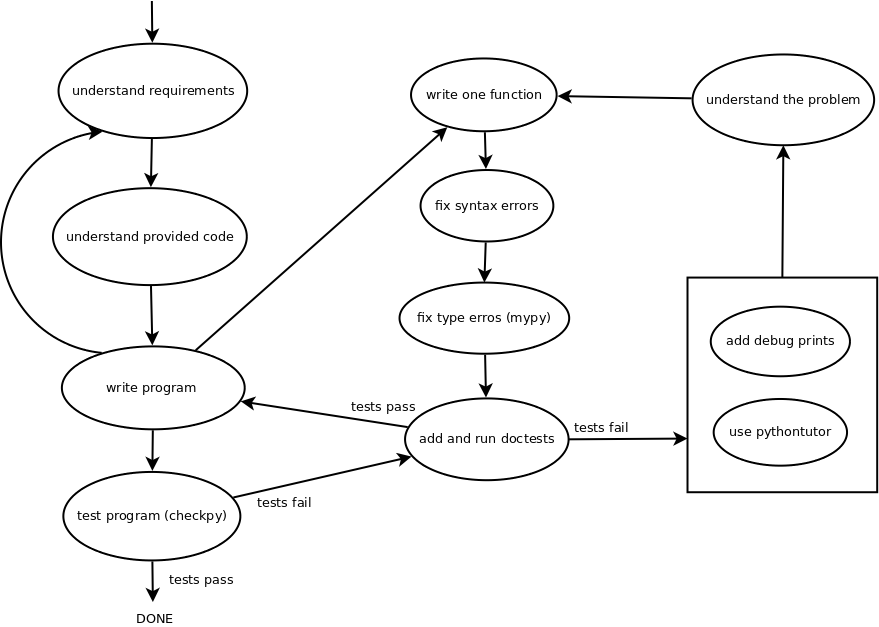
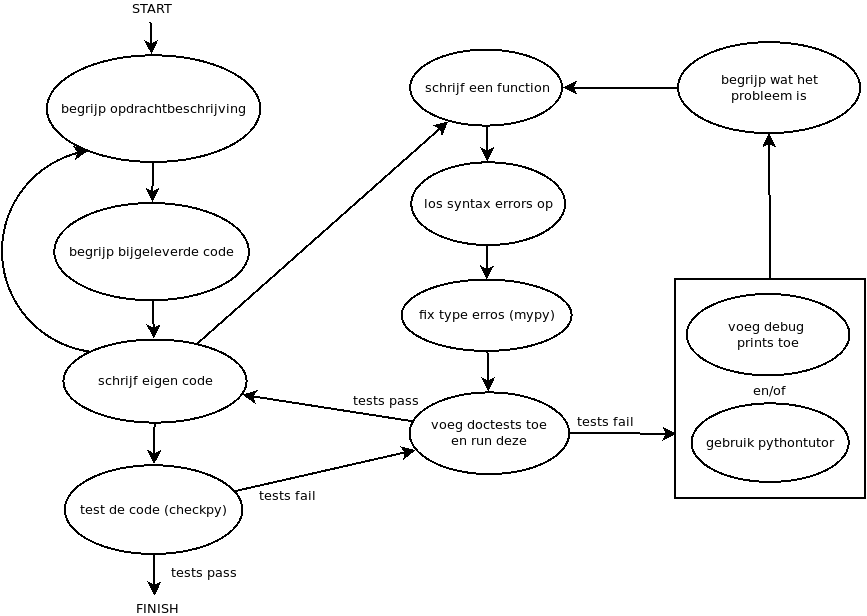
tekst verduidelijkt

diff --git a/opdrachten/week4/debug/index.md b/opdrachten/week4/debug/index.md
@@ -22,7 +22,7 @@ dus 2 biljetten van 20€, 1 biljet van 5€ en 1 munt van 1€ euro zorgt voor
 een total van 46€.
 
 Het is de bedoeling dat programma
-[compute_change.py](compute_change.py) dit voor elke bedrag kan
+[compute_change.py](compute_change.py) dit voor elk bedrag kan
 uitrekenen:
 
 ```python
@@ -78,10 +78,10 @@ Als we het bovenstaande programma uitvoeren:
                     ^
     SyntaxError: '[' was never closed
     
-krijgen we een 'SyntaxError' die probeert uit te leggen wat er mis
-is. Soms helpt het om een websearch (op "SyntaxError [ was never
-closed") te doen als je de uitleg niet helemaal begrijpt. Let bij een
-error vooral op de filename (hier "compute_change.py") en het
+krijgen we een 'SyntaxError' met een foutmelding die probeert uit te
+leggen wat er mis is. Soms helpt het om een websearch op de
+foutmelding te doen als je de uitleg niet helemaal begrijpt. Let bij
+een foutmelding vooral op de filename (hier "compute_change.py") en het
 regelnummer (hier "line 37") om snel de plek in de code te vinden waar
 de error zich voordoet. Soms krijg je meerdere regels met filenames en
 regelnummers, begin dan onderaan.
@@ -103,16 +103,16 @@ uitvoeren en er wordt gevraagd om een bedrag, kies daar '46':
                2:       16
                1:       15
 
-Het programma werkt maar het is duidelijke dat de
-denominatie-aantallen niet kloppen want het totaal voor de
-verschillende denominatie-aantallen is hoger dan 46, er zit dus een
-logische fout in het pogramma, een **bug**. Maar deze bug kan overal
-zitten, hoe vinden we nu waar de bug zit?
+Het programma werkt maar het is duidelijk dat de denominatie-aantallen
+nog niet kloppen want het totaal voor de verschillende
+denominatie-aantallen is hoger dan 46, er zit dus nog een logische
+fout in het pogramma, een **bug**. Maar deze bug kan overal zitten,
+hoe vinden we nu waar de bug zit?
 
 ## Type Checking
 
 'Type checks' kunnen helpen te bepalen waar er nog een bug in het
-programma zit door te controleren op type fouten. We kunnen
+programma zit door te controleren op type-fouten. We kunnen
 bijvoorbeeld functie:
 
 ```python
@@ -129,24 +129,24 @@ met als resultaat:
 
     Hello WorldHello World
     
-Maar in de functie staat met `: int` aangegeven dat deze eigenlijk
+Maar in deze functie staat met `: int` aangegeven dat deze eigenlijk
 alleen voor integers bedoeld is. Deze functie per ongeluk aanroepen met
 een string zou daarom wel eens tot een bug kunnen leiden. Met 'type
 checks' kunnen we dit soort type fouten automatisch vinden. Installeer
-daarvoor eerst 'mypy':
+hiervoor eerst 'mypy':
 
 ```console                                  
 $ pip install mypy
 ```
                                      
-en run daarmee 'type checks' op een programma met:
+en run daarmee 'type checks' op het denominaties voorbeeldprogramma met:
 
 ```console
 $ mypy --strict compute_change.py
 ```
                                      
-Dit vindt automatisch deze type fouten en geeft ook het
-regelnummer.
+Dit vindt automatisch deze type-fouten, zodat we ze niet zelf hoeven
+op te sporen, en geeft ook de regelnummers:
                                      
 ```console
 $ mypy --strict compute_change.py
@@ -159,8 +159,8 @@ Found 2 errors in 1 file (checked 1 source file)
 
 ## Doctest
 
-Ook doctests kunnen helpen te bepalen waar er nog een bug in het
-programma zit door te controleren of de functie doet wat in de
+Ook doctests kunnen helpen te bepalen waar er nog een bug in een
+programma zit door te controleren of een functie doet wat in de
 voorbeelden staat. Zo heeft de functie `compute_denomination_amount()`
 al 2 voorbeelden in de vorm van doctest:
 
@@ -173,8 +173,9 @@ al 2 voorbeelden in de vorm van doctest:
     
 Het eerste voorbeeld geeft aan dat we voor een gedrag van 1€ 0
 biljetten van 10€ gebruiken en het tweede dat we voor een bedrag van
-24€ 2 biljetten van 10€ gebruiken. We kunnen alle doctest in het
-programma runnen met:
+24€ 2 biljetten van 10€ gebruiken. We kunnen automatisch controleren
+of elke functie het juiste resultaat geeft wat in bijbehorende
+voorbeelden is genoemd door de doctests te runnen met:
                                      
 ```console
 $ python -m doctest compute_change.py
@@ -216,7 +217,7 @@ Test passed.
 Alle doctest slagen maar er zit nog wel een bug in het programma. 
 
 **Opdracht3:** Voeg meer doctest toe om te proberen te ontdekken of
-`compute_denomination_amount()` een bug heeft.
+`compute_denomination_amount()` nog een bug heeft.
 
 Daarbij is het belangrijk om vooral de randgevallen te testen, dus
 waarden die aan beide kanten van een waardeovergang liggen,
@@ -224,14 +225,15 @@ bijvoorbeeld:
 
 Voor 999€ kan ik 99 biljetten van 10€ gebruiken, maar bij 1€ meer vind
 er een overgang plaats, voor 1000€ kan ik namelijk 100 bijetten van
-10€ gebruiken.
+10€ gebruiken. Dat maakt 999 en 1000 randgevallen die nuttig zijn voor
+een test.
 
 Als je met een doctest een bug ontdekt, is het nuttig om de test te
 proberen te versimpelen op zo'n manier dat de bug behouden blijft. Het
-voorbeeld van 999€ is niet erg simpel omdat het zo'n groot begrag
-is, probeer een lagere waarde te vinden met behoud van de bug. Bij
-simpelere tests is het namelijke makkelijker om de
-oorzaak van de bug te ontdekken.
+voorbeeld van 999€ is niet erg simpel omdat het zo'n groot bedrag is,
+probeer een lagere waarde te vinden waarbij wel de bug behouden
+blijft. Bij simpelere tests is het namelijke makkelijker om de oorzaak
+van de bug te ontdekken.
 
 ## Prints
 
@@ -251,9 +253,10 @@ Voor een bedrag van 6€ heb ik 0 biljetten van 10€ nodig, maar
 de functie geeft foutief het aantal '1'.
 
 Om beter te begrijpen wat in deze functie gebeurt kunnen we
-print-statements toevoegen voor variabelen en expressies. Voeg bij
-print-statements voor een goed overzicht ook de naam van de variabele
-toe die je print, dus:
+print-statements toevoegen die de waarde van variabelen en expressies
+weergeven. Voeg bij print-statements voor een goed overzicht ook
+steeds de naam van de variabele/expressie toe die je print, dus iets
+van:
 
 ```python
 print("variabele:", variabele)
@@ -266,7 +269,7 @@ print(variabele)
 ```
                                      
 Voor `compute_denomination_amount()` zou dat er zo uit kunnen zien:
-                                     
+
 ```python
 def compute_denomination_amount(due: int, denomination: int) -> int:
     print("due / denomination:", due / denomination)
@@ -323,8 +326,8 @@ Na een aantal keer 'Next' klikken komen we in de
 welke variabelen er zijn en hoe hun waarden veranderen bij het
 uitvoeren van de regels. Dit geeft meer details dan alleen
 print-statements en kan helpen om beter te begrijpen waarom de functie
-een verkeerde waarde terug geeft. Klik ook op 'Prev' om een regel
-terug te stappen.
+een verkeerde waarde terug geeft. Klik op 'Prev' om ook een regel
+terug in de tijd te stappen.
 
 ![PythonTutor_watch](watch.png){: style="width:20rem;"}
 
@@ -344,7 +347,7 @@ probeer het dan echt eerst zelf te ontdekken voor je verder leest.
 Na enig denkwerk zouden we met alle informatie tot de conclusie moeten
 kunnen komen dat 0.6 naar beneden moet worden afgerond voor het juiste
 aantal bankbiljetten en niet naar het dichtsbijzijnde gehele
-getal. Dit kan met:
+getal. Dit kan bijvoorbeeld met:
 
 ```python
 amount = due // denomination
@@ -390,7 +393,7 @@ for denomination in denominations:
     print("due:", due, "denominations:", denominations, "change:", change)
 ```
 
-Wat voor 46€ deze output geeft, maar voeg zelf vooral print-statements toe
+welke voor 46€ deze output geeft, maar voeg zelf vooral print-statements toe
 die helpen voor jouw eigen begrip:
         
     Welk bedrag moet je betalen? 46
@@ -420,15 +423,15 @@ te verwijderen.
 
 Het kan best moeilijk zijn om bugs te vinden en op te lossen. Het kost
 soms veel tijd/energie/frustratie om te begrijpen wat er in code moet
-gebeuren, wat er mis gaat, en hoe dit kan worden opgelost. Toch is dit een
-van de belangrijkste programmeervaardigheden. Met oefening wordt je
-hier vanzelf beter in en wordt dit ook makkelijker. Wat helpt is
+gebeuren, wat er mis gaat, en hoe dit kan worden opgelost. Toch is dit
+een van de belangrijkste programmeervaardigheden. Met oefening wordt
+je hier vanzelf beter in en wordt dit ook makkelijker. Wat helpt is
 precies werken zodat je bugs voorkomt en regelmatig testen. Test
-steeds met print-statements of je programma doet wat je denkt dat het
-doet, na maar een klein aantal nieuwe regels code toe te hebben
-gevoegd. Dan kost testen over het algemeen minder tijd dan pas
-achteraf veel regels tegelijk testen (zoals in het bovenstaande
-programmma).
+steeds met doctests/print-statements/PythonTutor of je programma doet
+wat je denkt dat het doet, na maar een klein aantal nieuwe regels code
+toe te hebben gevoegd. Dan kost testen over het algemeen minder tijd
+dan pas achteraf veel regels tegelijk testen (zoals in het
+bovenstaande programmma).
 
 ## Correctheid
 
@@ -437,16 +440,16 @@ maar we kunnen niet zeker weten dat een programma helemaal bug vrij
 is. Misschien zijn we namelijke een belangrijke test vergeten voor een
 speciaal geval.
 
-Om toch meer zekerheid te krijgen kunnen we in veel gevallen wel code
-schrijven die automatisch veel test uitvoert. Hieronder voorbeeld-code
-die van een 'change'-lijst het 'due' bedrag terug-berekent. Deze
-waarde zou natuurlijk gelijk moeten zijn aan het originele 'due'
-bedrag van de 'change'-lijst. We kunnen dit vervolgens testen voor
-bijvoorbeeld 100000 verschillende random gekozen waarden voor
-'due'. Als het voor al die waarden goed werkt kunnen we toch een hoge
-mate van vertrouwen krijgen dat de code bug-vrij is, maar helemaal
-zeker weten doen we dat in het algmeen niet, zeker niet voor grote
-complexe programma's.
+Om toch meer zekerheid te krijgen kunnen we in sommige gevallen wel
+code schrijven die automatisch veel test uitvoert. Hieronder
+voorbeeld-code die van een 'change'-lijst het 'due' bedrag
+terug-berekent. Deze waarde zou natuurlijk gelijk moeten zijn aan het
+originele 'due' bedrag van de 'change'-lijst. We kunnen dit vervolgens
+testen voor bijvoorbeeld 100000 verschillende random gekozen waarden
+voor 'due'. Als het voor al die waarden goed werkt kunnen we toch een
+hoge mate van vertrouwen krijgen dat de code bug-vrij is, maar
+helemaal zeker weten doen we dat in het algmeen niet, zeker niet voor
+grote complexe programma's.
 
 ```python
 import random
@@ -488,19 +491,19 @@ krijgen dat alle bugs zijn verwijderd.
 
 ## Checkpy
 
-In dit vak hoef je niet zelf alle test code te schrijven om te
+In dit vak hoef je niet zelf alle testcode te schrijven om te
 controleren of je programma bug-vrij is. Bij het inleveren wordt je
-code bij de meeste opdrachten automatisch getest met `checkpy`. Je
-kunt deze tests ook zelf uitvoeren na installeren en configureren
-van checkpy met:
+code bij de meeste opdrachten namelijk al automatisch getest met
+`checkpy`. Je kunt deze tests ook zelf uitvoeren na installeren en
+configureren van checkpy met:
 
 ```console
 pip install checkpy
 checkpy -download https://github.com/minprog/python
 ```
 
-Om bijvoorbeeld de tests uit te voeren op de het `cafeine.py` programma van de
-eerste opdracht:
+Run daarna bijvoorbeeld dit om de checkpy tests uit te voeren op het
+`cafeine.py` programma van de eerste opdracht:
 
 ```console
 checkpy cafeine.py
@@ -508,7 +511,7 @@ checkpy cafeine.py
 
 Bij deze tests worden meestal ook de 'type checks' en doctests
 uitgevoerd, maar het is duidelijker om die van te voren zelf uit te
-voeren omdat je dan meer feedback krijgt, dus:
+voeren omdat je dan meer feedback krijgt, dit kan met:
 
 ```console
 mypy --strict cafeine.py
